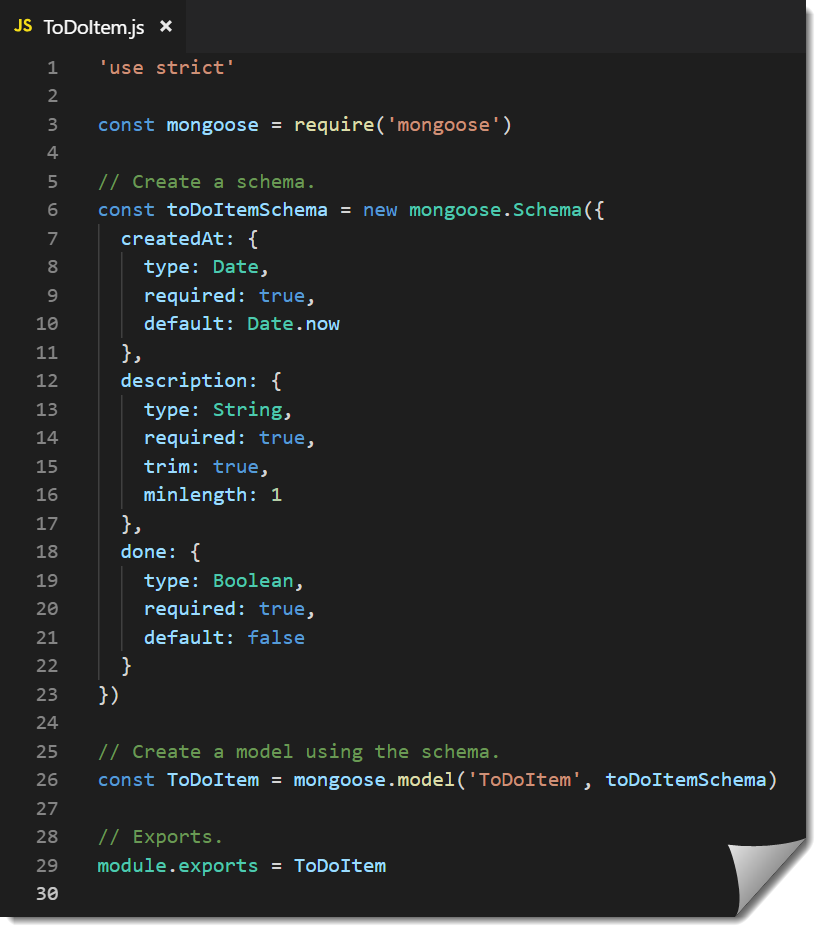
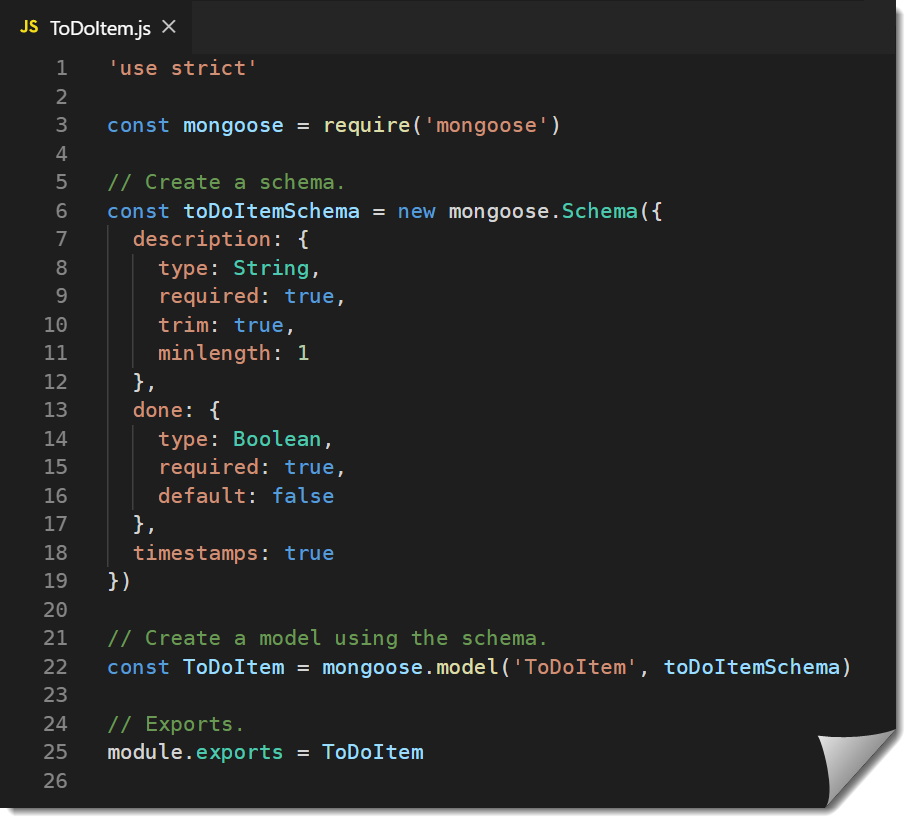
Updating before fall 2019

diff --git a/lectures/03/index.html b/lectures/03/index.html
@@ -55,6 +55,11 @@
         text-indent: -1em;
         margin: 0 0 .5em 0;
     }
+
+    img.fix {
+      max-height: unset;
+    }
+
   </style>
 </head>
 
@@ -163,7 +168,7 @@
                 - Oracle, SQL Server, MySQL, MariaDB, PostgreSQL
                 - MongoDB
               - Cloud persistence?
-                - mLab.com (Database-as-a-Service), AWS, Azure, Google Cloud
+                - mongodb.com (DaaS, Data-as-a-Service), AWS, Azure, Google Cloud
           </script>
         </section>
 
@@ -171,7 +176,7 @@
           <h3>We will use a database!</h3>
           <div class="twocolumn">
             <div style="min-height: 600px">
-              <img src="./images/js-full-stack.png" />
+              <img src="./images/js-full-stack.png"  class="fix"/>
             </div>
             <div style="font-size: 80%">
               <ul>
@@ -198,7 +203,7 @@
             - NoSQL Databases types (non-relational database)
               - Document databases
                 - Organizes data into documents.
-                - MongoDB
+                - MongoDB, Firebase
               - Graph database
               - Key-value database
           </script>
@@ -213,7 +218,7 @@
           <h3>MongoDB ecosystem</h3>
           <div class="twocolumn">
             <div style="min-height: 600px">
-              <img src="./images/mongodb-mlab-mongoose.png" />
+              <img src="./images/mongodb-atlas-mongoose.png" class="fix" />
             </div>
             <div style="font-size: 80%">
               <ul>
@@ -228,10 +233,10 @@
                     <li>The document model is simple to learn and use.</li>
                   </ul>
                 </li>
-                <li>mLab
+                <li>MongoDB Atlas
                   <ul>
-                    <li>A cloud database service that hosts MongoDB databases.</li>
-                    <li>Easy to get started at <a href="https://docs.mlab.com/">https://docs.mlab.com/</a>.</li>
+                    <li>MongoDB Atlas is a cloud database service.</li>
+                    <li>Easy to get started at <a href="https://www.mongodb.com/cloud/atlas">https://www.mongodb.com/cloud/atlas</a>.</li>
                   </ul>
                 </li>
                 <li>Mongoose
@@ -251,13 +256,13 @@
         <section>
           <h3>Create a MongoDB database</h3>
           <div class="twocolumn">
-            <div style="min-width: 500px">
-              <img src="./images/mlab-db.png" />
+            <div style="min-width: 400px">
+              <img src="./images/getting-started-mongodb-atlas.png" class="fix" />
             </div>
             <div style="font-size: 80%">
               <ul>
-                <li>By following the first two steps in the <a href="https://docs.mlab.com/">Quick-Start Guide to mLab</a> it's easy to create a new MongoDB database.</li>
-                <li>For safety reasons it's strongly recommended to create a database user whose credentials you can use when connecting to the database, <a href="https://docs.mlab.com/connecting/#users">https://docs.mlab.com/connecting/#users</a>.</li>
+                <li>By starting out with <a href="https://docs.atlas.mongodb.com/getting-started/">Getting Started with MongoDB Atlas</a> it should easy to create a new MongoDB database.</li>
+                <li>For safety reasons be sure to follow <a href="https://docs.atlas.mongodb.com/getting-started/">Create a MongoDB User for Your Cluster</a>!</li>
               </ul>
             </div>
           </div>
@@ -267,14 +272,14 @@
           <h3>Managing the Mongoose connection</h3>
           <div class="twocolumn">
             <div style="min-height: 600px">
-              <img src="./images/mongoose.js.png" />
+              <img src="./images/mongoose.js.png" class="fix" />
             </div>
             <div style="font-size: 80%">
               <ul>
                 <li>You connect to MongoDB with the <code>mongoose.connect()</code> method.
                   <ul>
-                    <li>The connection string, enforcing access control, can be found at mLab.
-                      <ul><li><code>mongodb://&lt;dbuser&gt;:&lt;dbpassword&gt;@ds223605.mlab.com:23605/dbname</code></li></ul>
+                    <li>The connection string, enforcing access control, can be found at the DaaS provider.
+                      <ul><li><code>mongodb+srv://&lt;dbuser&gt;:&lt;password&gt;@&lt;cluster&gt;.mongodb.net/test?retryWrites=true&w=majority</code></li></ul>
                     </li>
                     <li>Returns a <code>Promise</code>.</li>
                   </ul>
@@ -321,7 +326,7 @@
           <h3>Converting a schema into a model</h3>
           <div class="twocolumn">
             <div style="min-height: 600px">
-              <img src="./images/todoitem.js.png" />
+              <img src="./images/todoitem.js.png" class="fix" />
             </div>
             <div style="font-size: 80%">
               <ul>

diff --git a/lectures/03/demo/models/ToDoItem.js b/lectures/03/demo/models/ToDoItem.js
@@ -1,21 +1,9 @@
-/**
- * Mongoose model ToDoItem.
- *
- * @author Mats Loock
- * @version 1.0.0
- */
-
 'use strict'
 
 const mongoose = require('mongoose')
 
 // Create a schema.
 const toDoItemSchema = new mongoose.Schema({
-  createdAt: {
-    type: Date,
-    required: true,
-    default: Date.now
-  },
   description: {
     type: String,
     required: true,
@@ -26,7 +14,8 @@ const toDoItemSchema = new mongoose.Schema({
     type: Boolean,
     required: true,
     default: false
-  }
+  },
+  timestamps: true
 })
 
 // Create a model using the schema.
